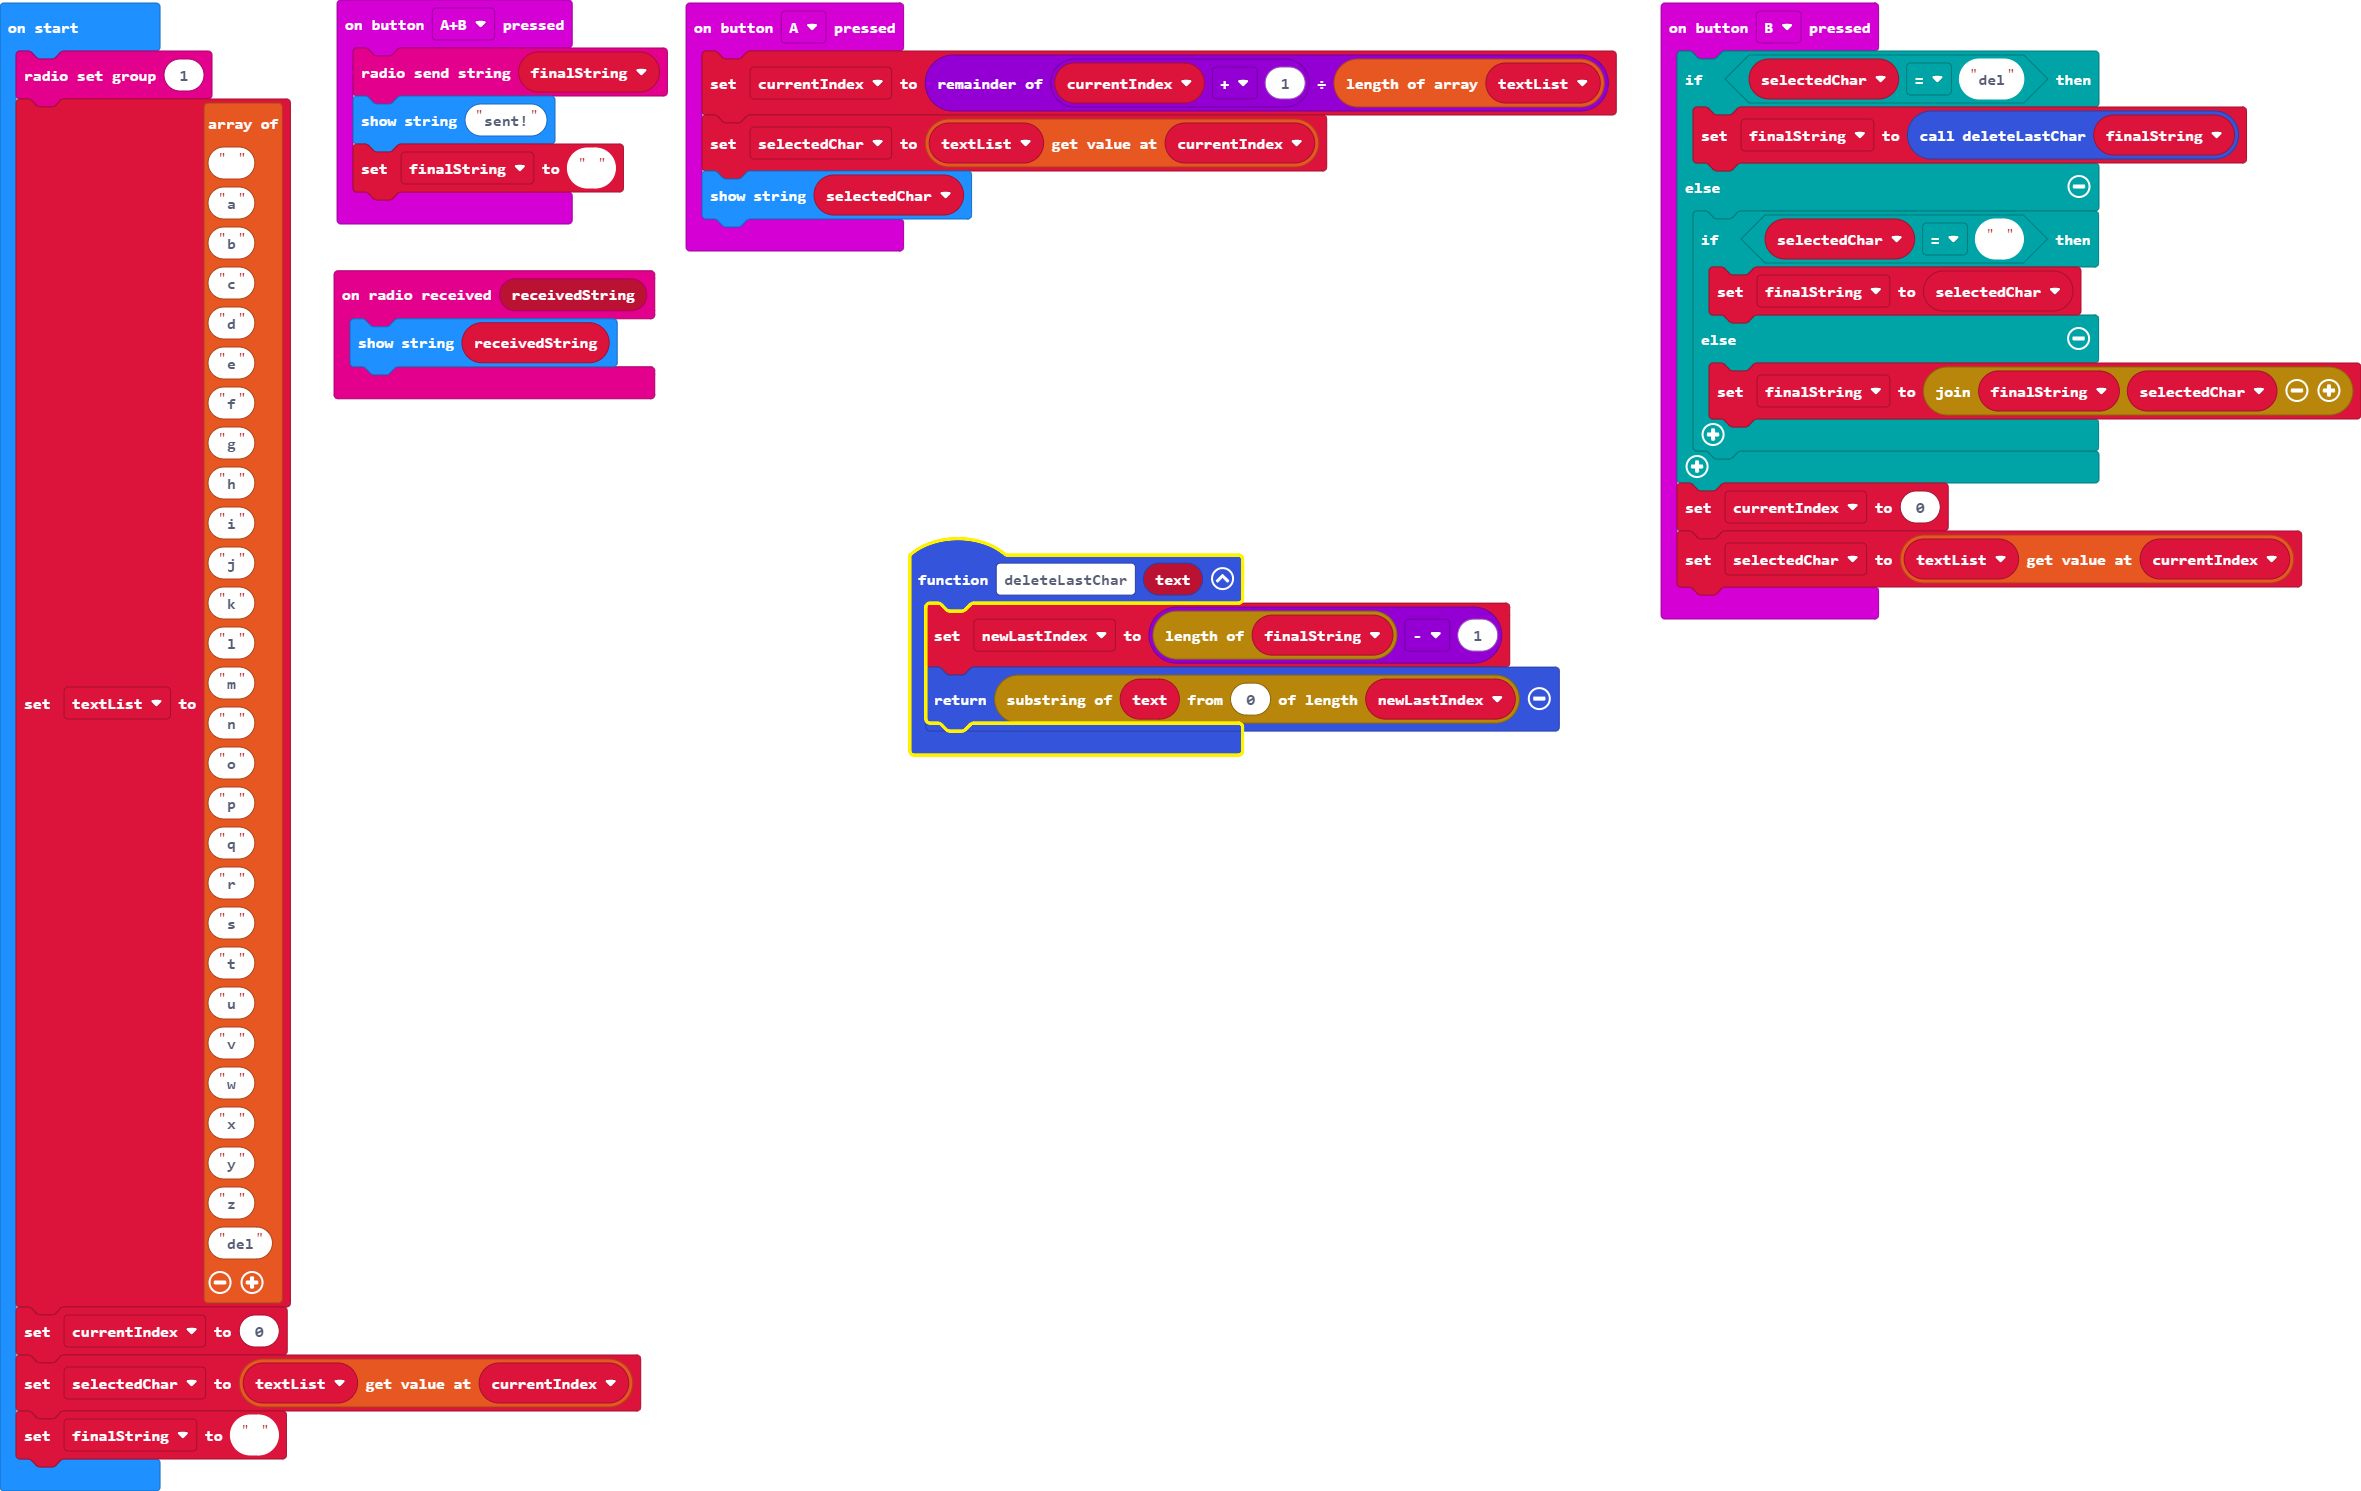
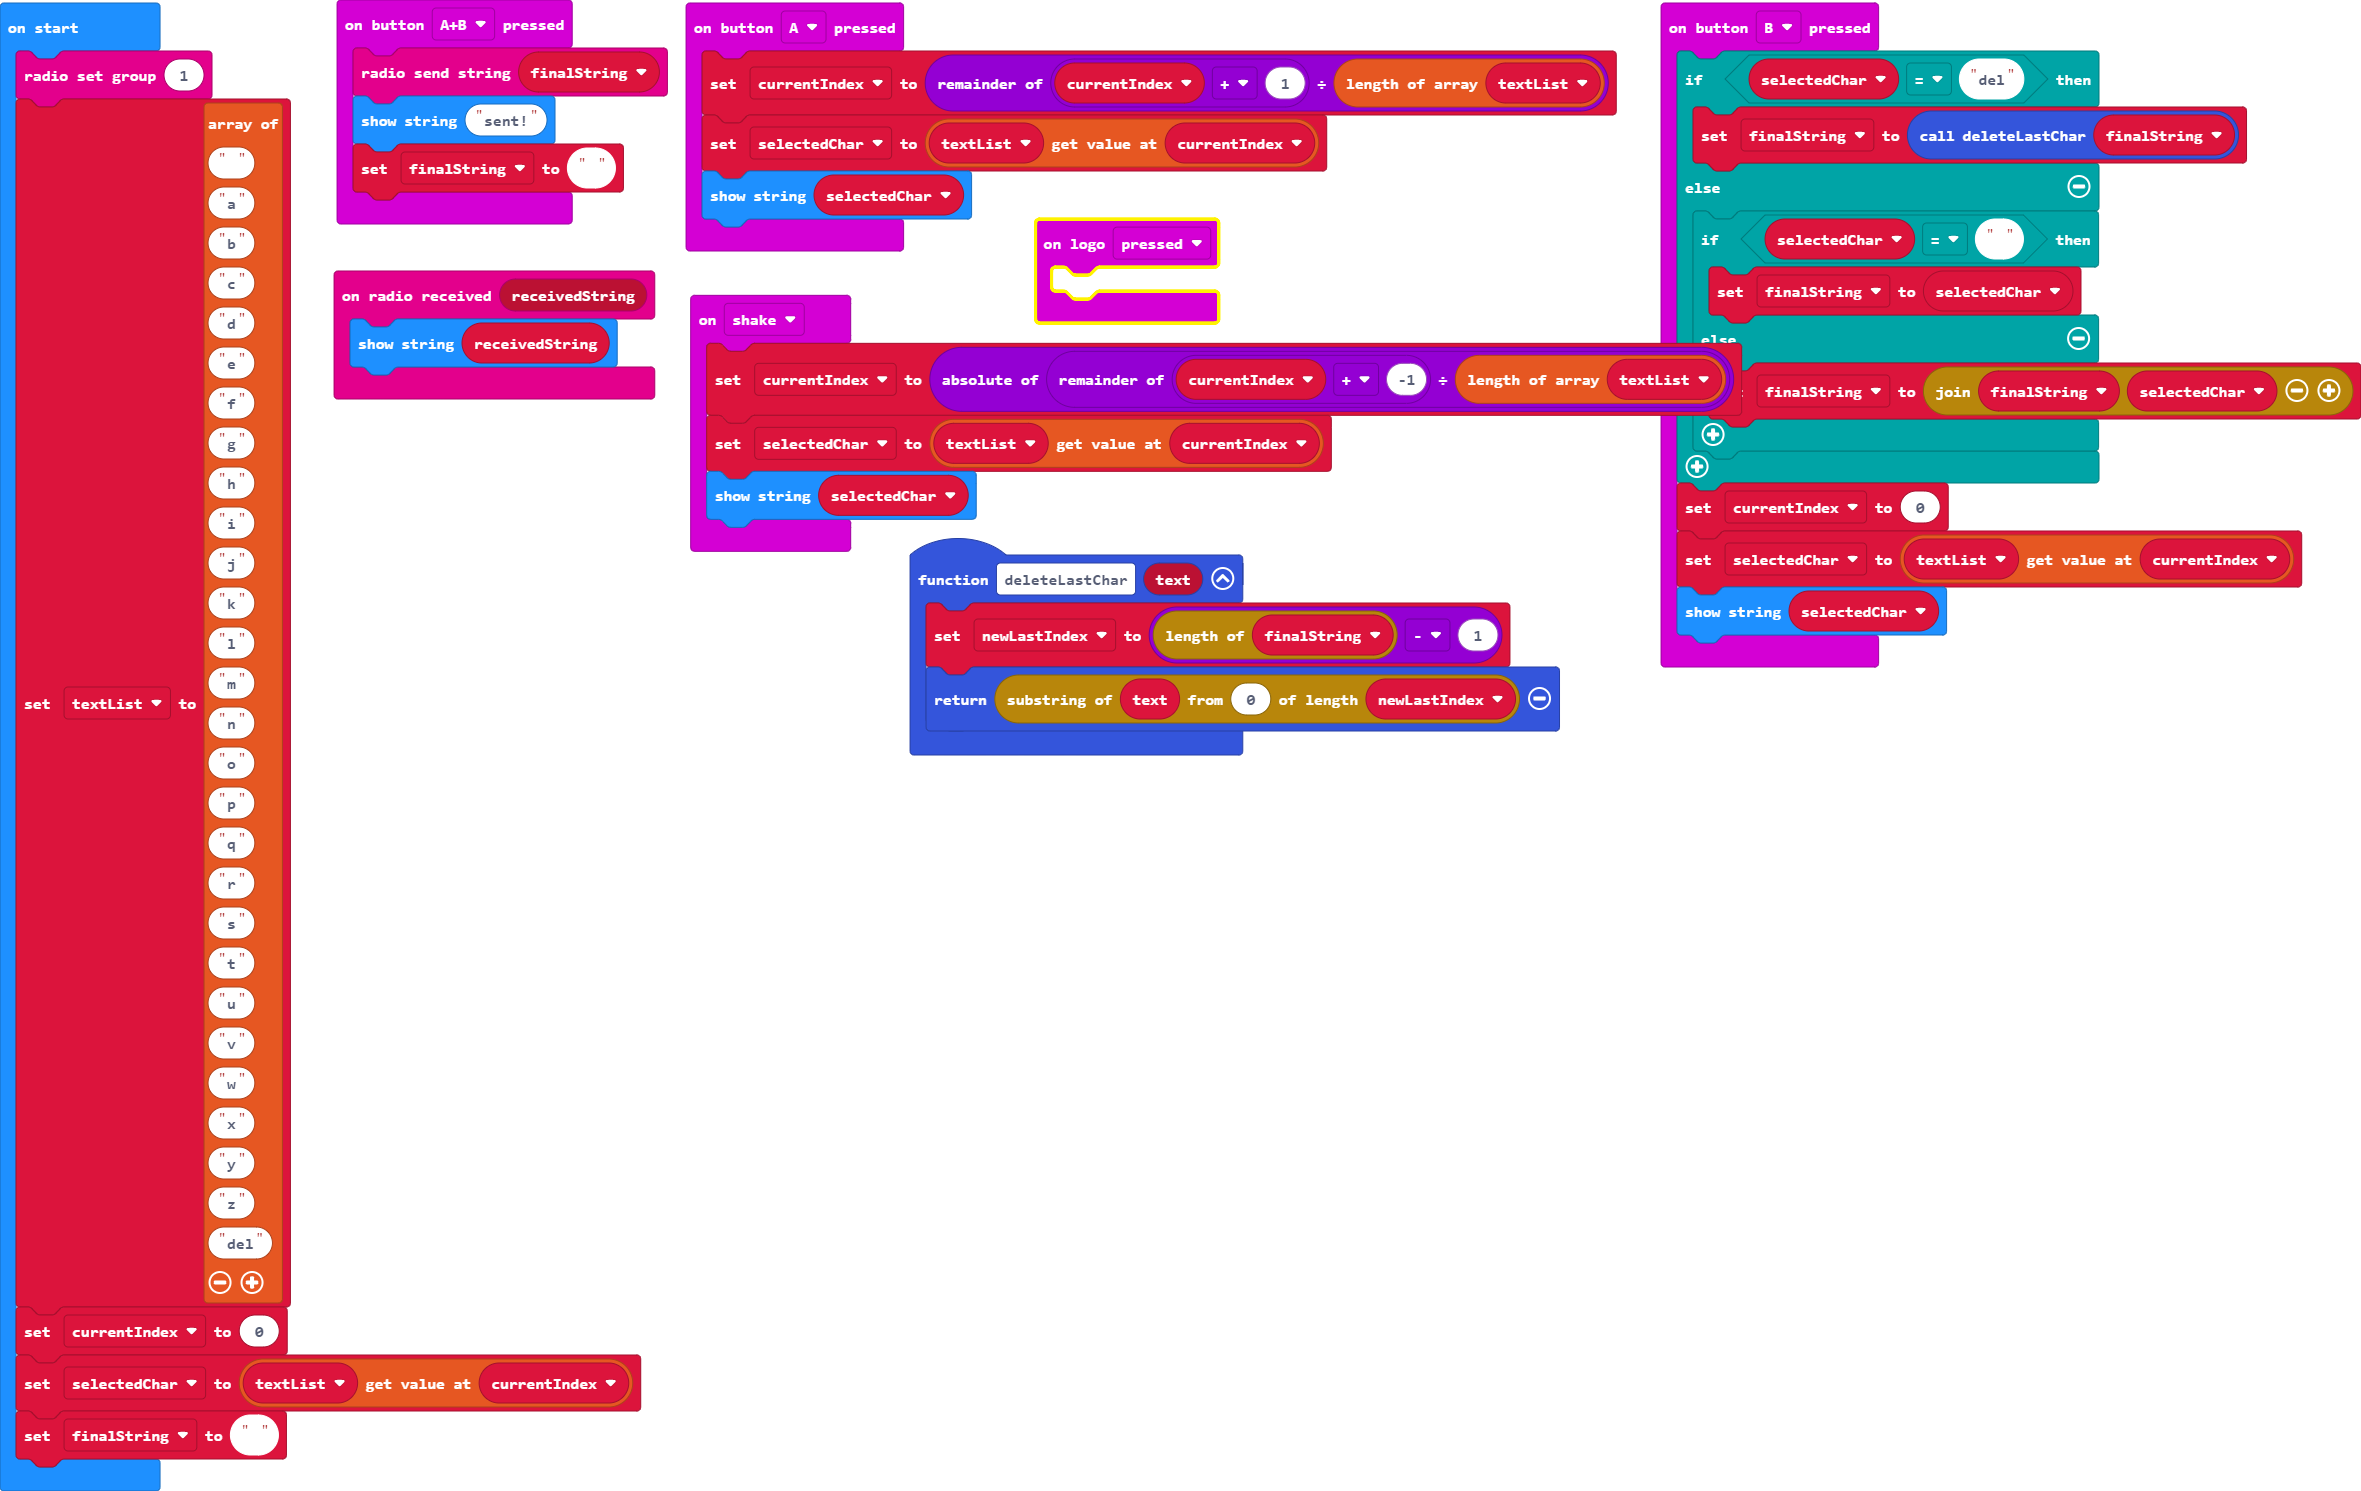
it work now?

diff --git a/main.ts b/main.ts
@@ -27,6 +27,15 @@ input.onButtonPressed(Button.B, function () {
     }
     currentIndex = 0
     selectedChar = textList[currentIndex]
+    basic.showString("" + (selectedChar))
+})
+input.onGesture(Gesture.Shake, function () {
+    currentIndex = Math.abs((currentIndex + -1) % textList.length)
+    selectedChar = textList[currentIndex]
+    basic.showString("" + (selectedChar))
+})
+input.onLogoEvent(TouchButtonEvent.Pressed, function () {
+	
 })
 let newLastIndex = 0
 let finalString = ""
